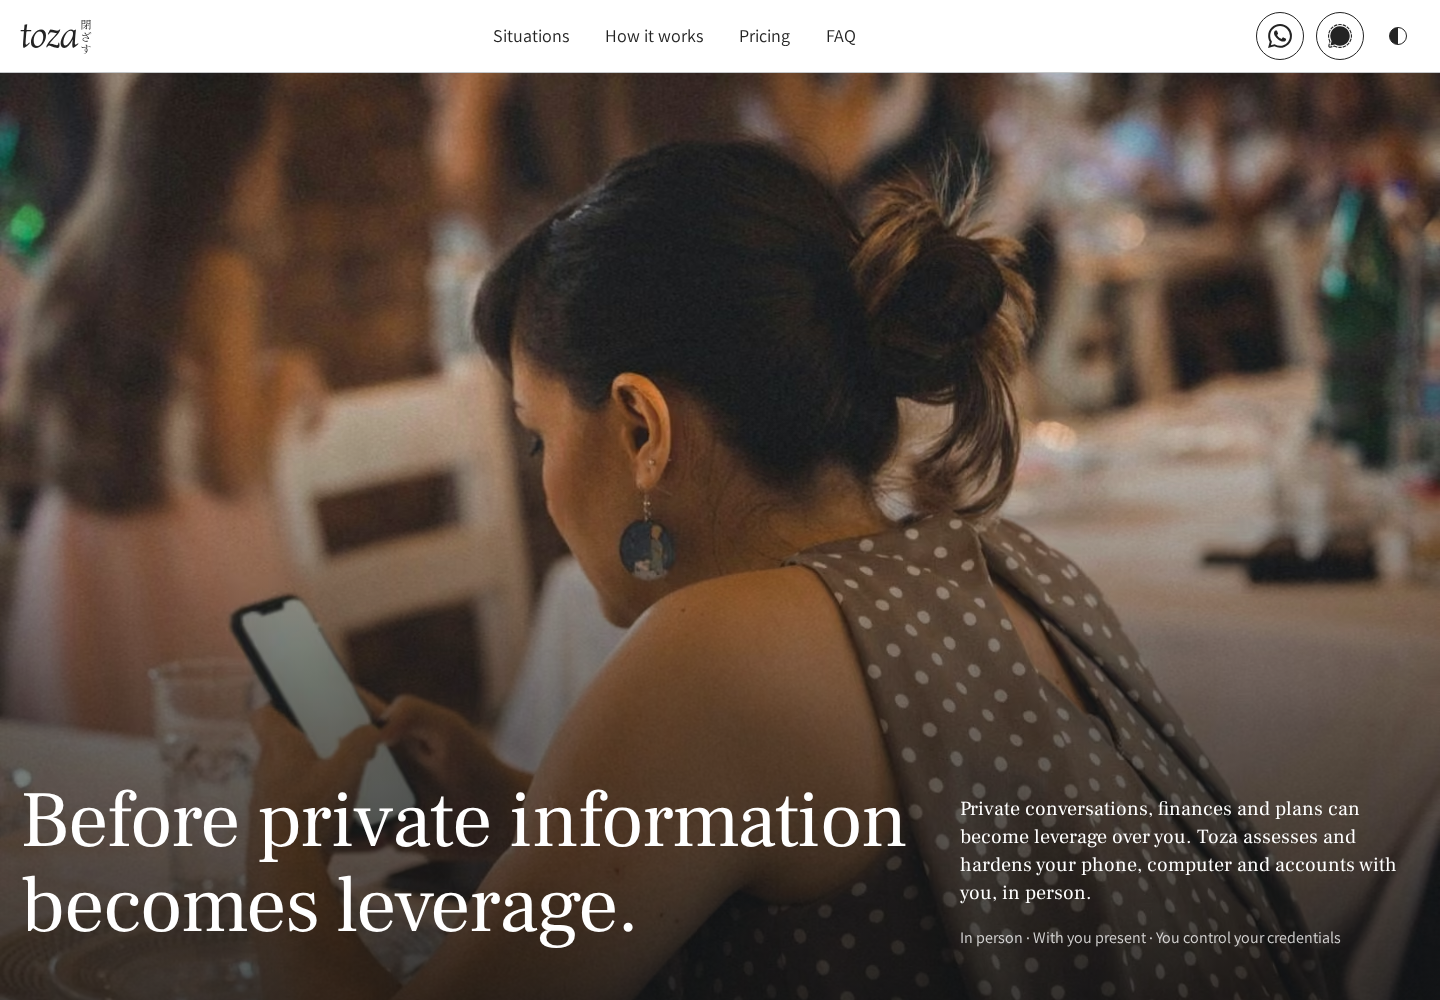
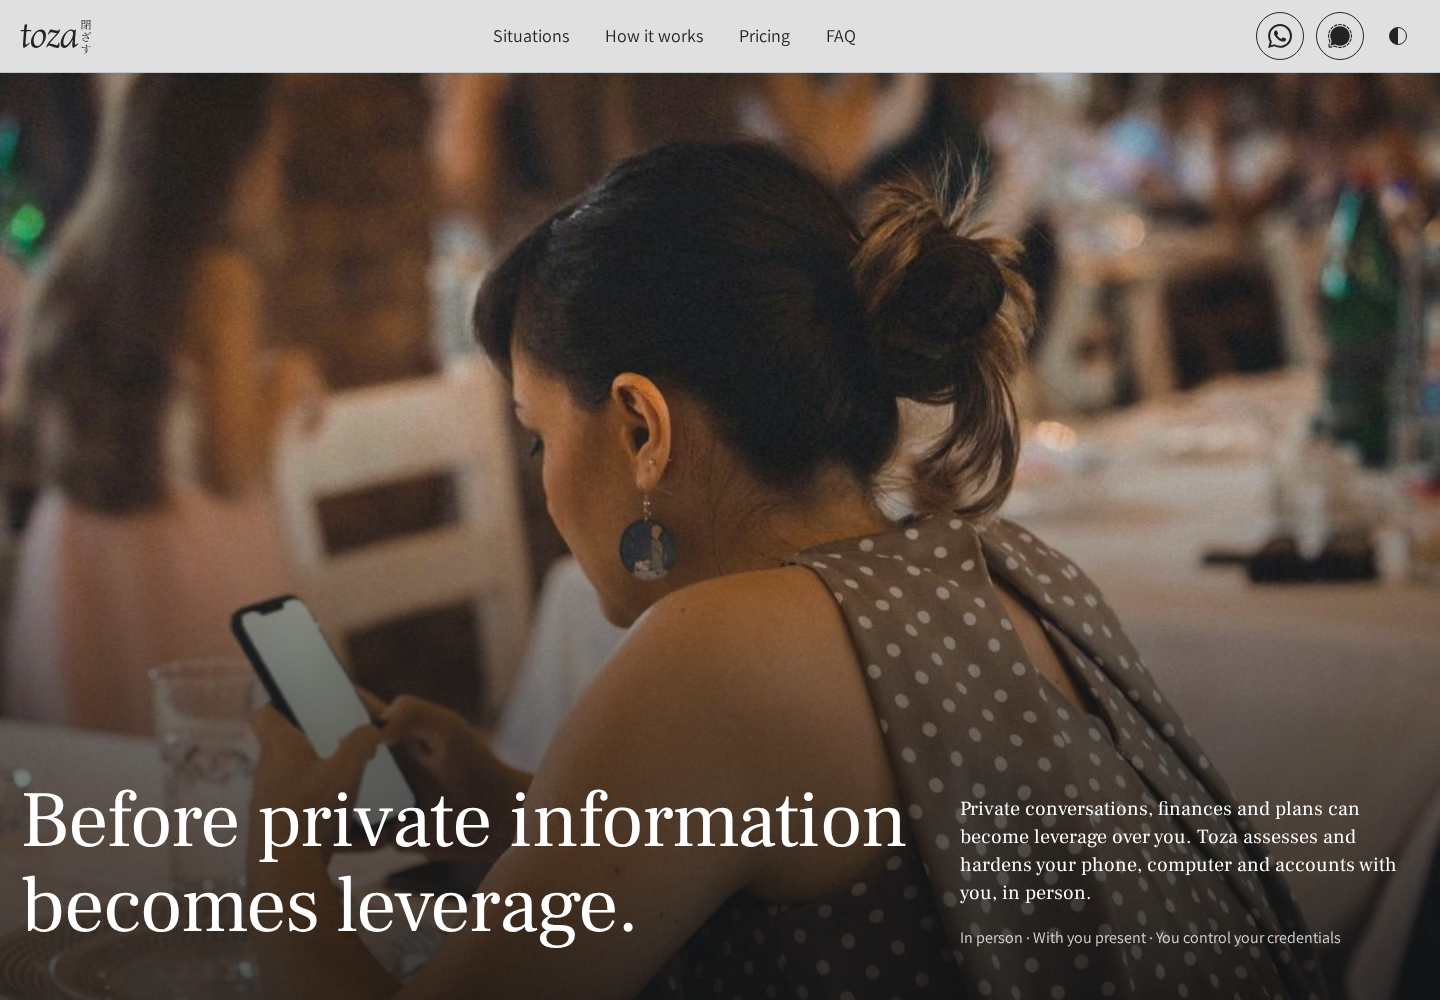
Match the specified grey ground and box colours

Changed region(s): [[0.0, 0.0, 1.0, 0.093]]

diff --git a/styles/tokens.css b/styles/tokens.css
@@ -3,12 +3,12 @@
   --font-sans: "Assistant", system-ui, "Segoe UI", Arial, sans-serif;  /* UI and facts (D105): prices, tier item lists, labels, navigation, buttons, footer. Self-hosted Assistant (latin + hebrew subsets). */
   --font-body: "Frank Ruhl Libre", "Times New Roman", Georgia, serif;  /* Body copy: the serif (D104). Flowbite reads --font-body. */
   --font-serif: "Frank Ruhl Libre", "Times New Roman", Georgia, serif;  /* Headlines, situation lines, tier names, all paragraphs (D105). No italic exists; none is synthesised. Self-hosted Frank Ruhl Libre (latin + hebrew subsets). */
-  --color-paper: #ffffff;  /* Ground. Page background. */
-  --color-paper-deep: #e0e0e0;  /* Cool grey (Aspen ground). Alternating sections, start card, bars. */
+  --color-paper: #e0e0e0;  /* Cool grey ground. Page background (approved handoff). */
+  --color-paper-deep: #d9d9d9;  /* Cool grey boxes. Alternating sections, start card, bars (approved handoff). */
   --color-ink: #232323;  /* Ink. Headings, primary action, inverse sections. In the dark theme it becomes the light text colour. */
   --color-ink-soft: #3b3b3b;  /* Ink, one step lighter. Primary action hover. */
   --color-text: #232323;  /* Body text. Also the semantic text colour. */
-  --color-muted: #595959;  /* Secondary text. 7.0:1 on paper (light). */
+  --color-muted: #595959;  /* Secondary text on the approved grey ground and boxes. */
   --color-mint: #a1ffcb;  /* Mint. Fill and small marks only (D84): never text, never a link colour. */
   --color-scrim: #0e1012;  /* Photo scrim: the dark ground, in both themes (gradients under text over photographs). */
   --color-on-photo: #ffffff;  /* Text and buttons over photographs and scrims: white, in both themes. */

diff --git a/docs/build-g/P3-IMPLEMENTATION.md b/docs/build-g/P3-IMPLEMENTATION.md
@@ -4,7 +4,7 @@
 
 The original handoff is preserved unchanged in `HANDOFF-toza-current.md`. This chunk carries the static P3 Home implementation onto the P2 integration base, retaining the previous P3 history without a force push. Other page layouts remain for P5–P9.
 
-Implementation corrections: opaque sticky header; stacked phone situation/close boxes; ink close panel with mint contact controls; actual method-statement content instead of a hidden three-stage declaration; no unused hero actions; the existing `#how` anchor retained. The content model now explicitly validates supported box layouts, while non-photo heroes still require action declarations. Content parity and its mutation regression test run in CI. The visual runner resolves the lockfile-installed Playwright by default.
+Implementation corrections: the handoff's exact grey ground/box tokens (#E0E0E0 / #D9D9D9); opaque sticky header; stacked phone situation/close boxes; ink close panel with mint contact controls; actual method-statement content instead of a hidden three-stage declaration; no unused hero actions; the existing `#how` anchor retained. The content model now explicitly validates supported box layouts, while non-photo heroes still require action declarations. Content parity and its mutation regression test run in CI. The visual runner resolves the lockfile-installed Playwright by default.
 
 The chosen skills are installed under `.agents/skills/`, with upstream commits and licences recorded there. No automatic hooks were installed. Impeccable context loading succeeded and its mechanical detector returned no findings for the changed shared shell and Home templates. Its generic design suggestions do not change the approved spec.
 
